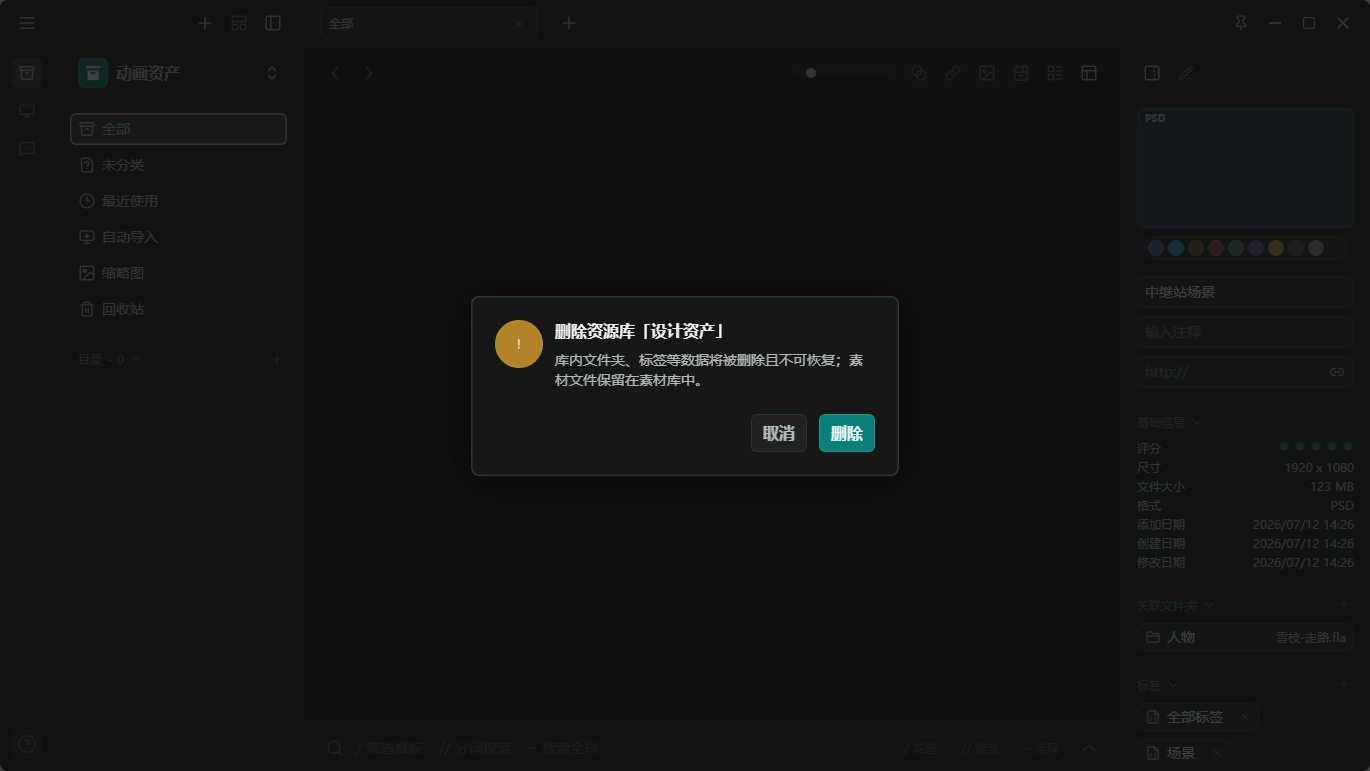
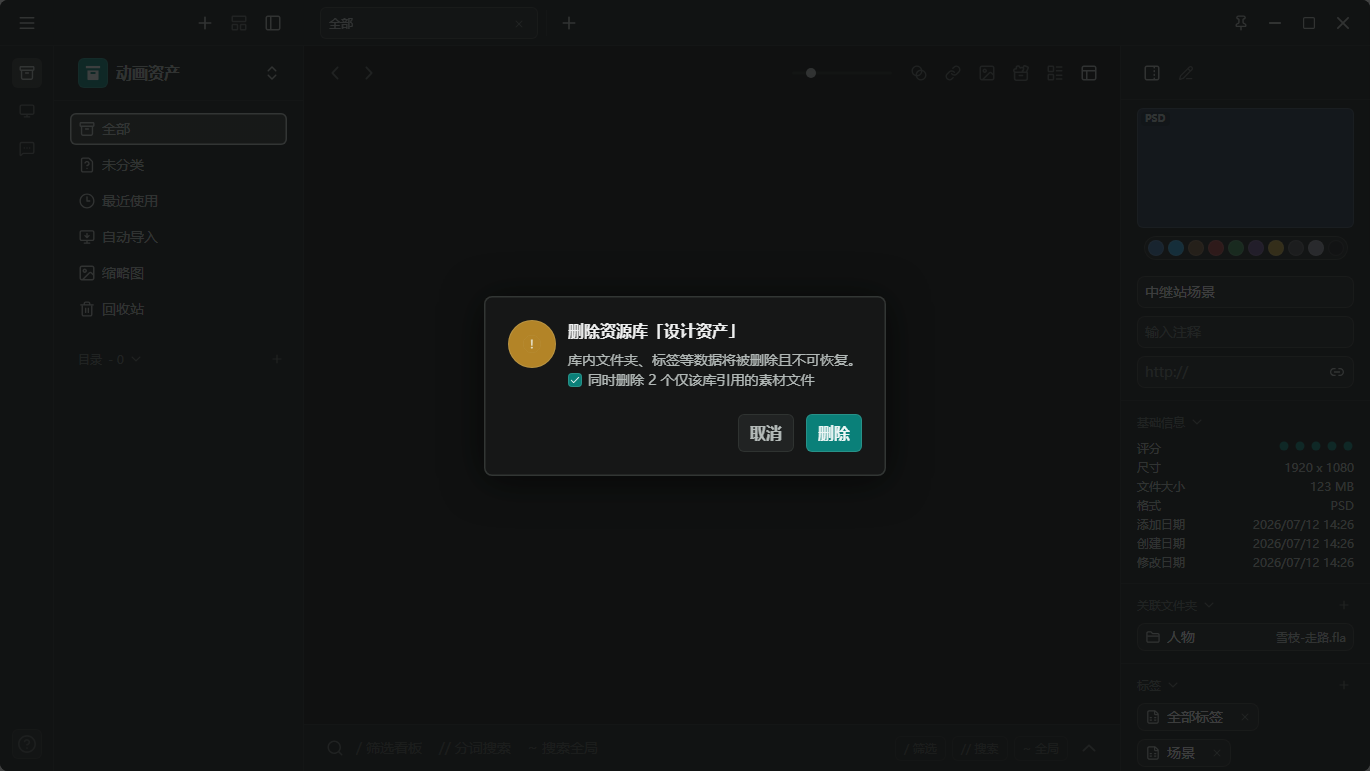
feat: 删库孤儿素材引用计数清理（count_library_orphans + deleteOrphans + 确认弹窗复选框）

Changed region(s): [[0.3372, 0.4047, 0.6131, 0.4981], [0.5518, 0.5292, 0.6438, 0.5914]]

diff --git a/src/App.vue b/src/App.vue
@@ -22,6 +22,7 @@ import SetupWizard from "./components/SetupWizard.vue";
 import CreateLibraryModal from "./components/CreateLibraryModal.vue";
 import AppModal from "./components/AppModal.vue";
 import AppButton from "./components/AppButton.vue";
+import AppCheckbox from "./components/AppCheckbox.vue";
 import ImportDialog from "./components/ImportDialog.vue";
 import SequenceDialog from "./components/SequenceDialog.vue";
 import ImportResultDialog from "./components/ImportResultDialog.vue";
@@ -235,7 +236,7 @@ async function togglePin(): Promise<void> {
     />
     <!-- 菜单"新建资源库"（16 稿独立弹窗） -->
     <CreateLibraryModal v-if="createLibraryModalState.open" @close="createLibraryModalState.open = false" />
-    <!-- 删除资源库确认（08 稿 item 删除×；09 稿 alert 侵入式配提示音） -->
+    <!-- 删除资源库确认（08 稿 item 删除×；09 稿 alert 侵入式配提示音；孤儿素材复选清理） -->
     <AppModal
       v-if="deleteLibraryState.name"
       variant="alert"
@@ -243,7 +244,13 @@ async function togglePin(): Promise<void> {
       :title="`删除资源库「${deleteLibraryState.name}」`"
       @close="deleteLibraryState.name = null"
     >
-      <p class="del-lib-text">库内文件夹、标签等数据将被删除且不可恢复；素材文件保留在素材库中。</p>
+      <p class="del-lib-text">库内文件夹、标签等数据将被删除且不可恢复。</p>
+      <AppCheckbox
+        v-if="deleteLibraryState.orphans > 0"
+        v-model="deleteLibraryState.includeOrphans"
+        :label="`同时删除 ${deleteLibraryState.orphans} 个仅该库引用的素材文件`"
+      />
+      <p v-else class="del-lib-text">素材文件保留在素材库中。</p>
       <template #actions>
         <AppButton label="取消" @click="deleteLibraryState.name = null" />
         <AppButton label="删除" variant="primary" @click="confirmDeleteLibrary" />

diff --git a/src/lib/libraryOps.ts b/src/lib/libraryOps.ts
@@ -154,11 +154,25 @@ export async function reorderLibraries(order: string[]): Promise<void> {
 }
 
 // 删除资源库（08 稿 item 删除×）：确认弹窗状态 + 执行。
+// 孤儿清理（2026-08-12 用户定案：统一池保留 + 引用计数清理）——弹窗前统计"仅该库引用"的素材数，
+// 复选框勾选（默认勾）则删库时一并删除这些素材实体（info 文件夹），共享素材保留。
 // 删当前打开的库 → 切剩余第一个 / 无剩余回第二步向导（PRD 01_储存空间 3.2）
-export const deleteLibraryState = reactive<{ name: string | null }>({ name: null });
+export const deleteLibraryState = reactive<{ name: string | null; orphans: number; includeOrphans: boolean }>({
+  name: null,
+  orphans: 0,
+  includeOrphans: true,
+});
 
 export function requestDeleteLibrary(name: string): void {
   deleteLibraryState.name = name;
+  deleteLibraryState.orphans = 0;
+  deleteLibraryState.includeOrphans = true;
+  // 统计失败不阻塞弹窗（复选框隐藏 = 不删实体）
+  void invoke<number>("count_library_orphans", { name })
+    .then((n) => {
+      if (deleteLibraryState.name === name) deleteLibraryState.orphans = n;
+    })
+    .catch(() => {});
 }
 
 export async function confirmDeleteLibrary(): Promise<void> {
@@ -166,7 +180,8 @@ export async function confirmDeleteLibrary(): Promise<void> {
   if (!name) return;
   const toast = useToastStore();
   try {
-    const rest = await invoke<string[]>("delete_library", { name });
+    const deleteOrphans = deleteLibraryState.orphans > 0 && deleteLibraryState.includeOrphans;
+    const rest = await invoke<string[]>("delete_library", { name, deleteOrphans });
     deleteLibraryState.name = null;
     toast.notify({ message: `资源库「${name}」已删除`, icon: "success", duration: 3000 });
     if (currentLibrary.name === name) {

diff --git a/tools/cdp-library-menu-probe.py b/tools/cdp-library-menu-probe.py
@@ -21,7 +21,8 @@ window.__TAURI_INTERNALS__ = {
   metadata: { currentWindow: { label: "main" }, currentWebview: { label: "main" } },
   invoke: (cmd, args) => {
     if (cmd === "reorder_libraries") window.__calls.reorder_libraries.push(args.order);
-    if (cmd === "delete_library") { window.__calls.delete_library.push(args.name); return Promise.resolve(["设计资产"]); }
+    if (cmd === "delete_library") { window.__calls.delete_library.push(args); return Promise.resolve(["设计资产"]); }
+    if (cmd === "count_library_orphans") return Promise.resolve(2);
     const LIB = { name: "动画资产", path: "E:/T/S/动画资产", assetCount: 0, folderCount: 0 };
     const R = {
       get_current_library: LIB,
@@ -124,6 +125,7 @@ async def main():
             await asyncio.sleep(0.6)
             print("菜单已关:", await ev("!document.querySelector('.app-menu')"))
             print("确认弹窗:", await ev("document.querySelector('.app-modal.alert .title')?.textContent ?? null"))
+            print("孤儿复选框:", await ev("document.querySelector('.app-modal .app-checkbox')?.textContent?.trim() ?? null"))
             import base64
             r = await send(ws, "Page.captureScreenshot", {"format": "png"}, session=sess)
             with open("tools/style-preview/delete-library-alert.png", "wb") as f:

diff --git a/docs/04_开发日志/2026-08-12.md b/docs/04_开发日志/2026-08-12.md
@@ -12,3 +12,4 @@
 - **2.1 八轮：inbox 改空间级共用（2026-08-12 用户定案："当初想的是空间级 inbox 共用一个，可以改成这种"）**。库级 settings.json 整个移除（唯一字段 autoImport 移出），库目录回到纯数据 + backup/cache/vectors；space.json 加 autoImport（serde default 兼容旧文件）；inbox/ 上移空间根（create 建 / open 自愈），盘符挂载恒定不随切库（activate_space 启停收件箱，activate 不再碰）；set_auto_import 改空间级返回 SpaceInfo；create_library 去 auto_import 参数、create_space 加之；commands/inbox.rs 四命令路径推导改空间根（导入目标仍当前库）；格式图标缓存锚点修正回库级 cache/thumbs（snapshot 加 cache_root 参数，无库 None 回退角标，含"空间根不出现 cache/"防回归断言）；库名保留字补 inbox。前端：currentLibrary.autoImport 移除改 currentSpace（name/autoImport，开空间/开关切换/侧栏兜底三处同步）；向导第二步开关 = 空间级设置（create_space 带入 / 已开空间场景变更走 set_auto_import，打开空间后回显当前值）；16 稿弹窗 create_library 不再带参。CDP 探针复验（cdp-autoimport-probe.py 桩更新）：弹窗 → set_auto_import → 进视图链路完好。cargo test 243 / vue-tsc / build 全绿。PRD 01_储存空间 02/3.1 与 07 接口文档同步。
 - **2.1 九轮：切换资源库菜单库 item 按 08 稿落地（用户走查：样式不对 + 抓手拖动排序 + 其他 item 跟随移动动画）**。原纯文字 checkable 项作废。新 `LibraryMenuItem.vue`（08 稿：移动抓手 drag-handle + 品牌徽章 20×20 + 库名标题档 + 当前库对勾与亮-选中罩层 + 删除×）；CtxItem 加 `library` 标记，ContextMenu 分流渲染（搜索平铺态退化普通 MenuItem）。**拖动排序**：抓手 pointerdown 起拖（window 监听 + blur 兜底取消，规范第 4 条），35px 步进（item 33 + gap 2）算目标位，被跨越项 translateY ∓35 让位（0.15s 过渡 = 跟随移动动画），拖动项跟随指针（transition none 防滞后），松手 splice 重排 + `reorder_libraries` 持久化（space.json libraryOrder：order 内按序、外来目录排尾字典序、create_library 自动入尾）；拖动超 3px 阈值抑制松手后的 click 误切库。**删除×**：关菜单 → AppModal alert 确认（"数据不可恢复，素材保留在素材池"）→ `delete_library`（删当前库先清 state/undo 再删目录）→ 删当前库时切剩余第一个 / 无剩余回第二步向导。后端 cargo test 250 绿（排序/删除/旧文件兼容覆盖）。CDP 探针实证（cdp-library-menu-probe.py + library-menu.png）：结构四件齐、让位 transform、reorder 顺序、删除链全通。vue-tsc 全绿。PRD 01_储存空间 3.2 同步。
 - **2.1 十轮：拖动松手动画与删除确认弹窗样式修正（2026-08-12 用户走查）**。① **松手多余交换动画**——根因：松手 splice 重排 + 清 transform 时 transition 仍生效，让位项视觉本已在目标位却又走了一遍过渡（"弹回去"观感）。修 = 库项 v-for key 改 `lib:库名`（splice 后 DOM 物理移动）+ 松手归位帧 `.menu-items.settling :deep(.lib-item) { transition: none }` 禁过渡——松手即到位（拖动项瞬移差 ≤ 半步 17px）。② **alert 弹窗样式错版**——AppModal alert 初版误做居中竖排，按 09 稿改横排：左 48 圆形状态徽章（error/warning 状态色底 + 亮-选中边框 + 图标 18 常态色）+ 右标题（16 高亮）/描述（14 常态）竖排 gap 8；删除确认标题带库名、描述精简。CDP 探针复验（library-menu 探针全链路 + delete-library-alert.png 贴稿）。vue-tsc 全绿。
+- **2.1 十一轮：删库孤儿素材清理（2026-08-12 用户定案：统一池保留 + 引用计数清理，否决 Eagle 式每库独立资产夹——会毁掉跨库零迁移/共享单实体核心价值）**。后端：`count_library_orphans` 命令 + `delete_library` 加 deleteOrphans 参数；孤儿 = 该库引用集（folders ∪ recycle，回收站算引用）与其余库引用集并集的差集，先算后删（删库后读不到其数据文件），info 删除走 paths 单点按 ID 递归删不枚举 assets/。前端：删除确认弹窗统计孤儿数 + AppCheckbox"同时删除 N 个仅该库引用的素材文件"（默认勾，不勾全留池）。cargo test 254 绿（共享保留/独有删除/recycle 引用/计数断言）。CDP 探针复验（复选框渲染 + deleteOrphans 参数传递 + delete-library-alert.png 贴稿）。vue-tsc 全绿。PRD 3.2 与接口文档同步。

diff --git a/docs/07_接口文档.md b/docs/07_接口文档.md
@@ -15,7 +15,8 @@
 	- `list_recent_libraries() -> LibraryEntry[]` —— 全局配置 config.json 的资源库最近列表（最近在前）；启动自动重开（reopenLastSession）与打开空间后选库使用
 	- `set_auto_import(enabled: bool) -> SpaceInfo` —— 自动导入开关（**空间级**，space.json 单写点；inbox 空间级共用，2026-08-12 用户定）：开 = 启动收件箱（盘符挂载 + 监听，目标 = 当前打开的库），关 = 停止收件箱（卸载盘符）；空间打开 / 切换时按该设置启停
 	- `reorder_libraries(order: string[]) -> string[]` —— 库列表拖动排序持久化（08 稿抓手拖动，space.json `libraryOrder` 单写点）；order 与实扫库名集合不一致报中文错；list_space_libraries 返回即按此序（外来目录排尾字典序，create_library 自动入尾）
-	- `delete_library(name: string) -> string[]`（剩余库名列表）—— 删除资源库：删当前打开的库先清 state/undo 再删目录（库内数据不可恢复，素材实体保留在 assets 池；确认弹窗在前端）；order 移除；删当前库后的切换由前端据返回列表驱动（切剩余第一个 / 无剩余回向导第二步）
+	- `delete_library(name: string, deleteOrphans: bool) -> string[]`（剩余库名列表）—— 删除资源库：删当前打开的库先清 state/undo 再删目录（库内数据不可恢复；确认弹窗在前端）；order 移除；删当前库后的切换由前端据返回列表驱动（切剩余第一个 / 无剩余回向导第二步）。**deleteOrphans（2026-08-12 孤儿清理定案）**：先算孤儿集再删库——孤儿 = 该库引用集（folders ∪ recycle）与其余各库引用集并集的差集，true 时这些 info 实体从 assets 池递归删除（共享素材保留；按 ID 删，不枚举 assets/）
+	- `count_library_orphans(name: string) -> u64` —— 统计该库孤儿素材数（删库确认弹窗的复选框文案用）
 	- 路径纪律：ID → info 路径推导唯一出口 `core/paths.rs`（assets 池访问纪律，PRD 01_储存空间），业务侧禁止自行拼 assets 路径
 	- **UI 设置与窗口几何持久化（2026-07-28 用户复验定："用户设置要持久化，包括窗口大小，位置"）**：落全局 config.json 的 settings 子树（core/config.rs 单一写点，应用级不随库）
 		- `get_ui_settings() -> Record<string, unknown>` —— settings.ui 子树原样返回（从未保存 = 空对象，前端按默认值补齐并做类型对照校验）；前端启动时调用覆盖 ui store（多预览窗口各自独立 Pinia 各自加载，不做跨窗口同步）

diff --git a/docs/03_项目-PRD/01_储存空间.md b/docs/03_项目-PRD/01_储存空间.md
@@ -56,7 +56,7 @@ AniKit（储存空间）
 ### 3.2 资源库管理
 
 - 切换资源库的二级菜单中可新建、切换资源库。
-- 库列表 item（08 稿）：移动抓手 + 品牌徽章 + 库名（标题档）+ 当前库对勾 + 删除×；**抓手拖动排序**（拖动时其他 item 跟随移动动画），自定义顺序持久化于 space.json `libraryOrder`（新库排尾，列表按此排序返回）；**删除×** = 删除资源库（确认弹窗：库内数据文件删除不可恢复，素材实体保留在 assets 池），删除当前打开的库时自动切到剩余第一个库、无剩余则回第二步创建（2026-08-12 定）。
+- 库列表 item（08 稿）：移动抓手 + 品牌徽章 + 库名（标题档）+ 当前库对勾 + 删除×；**抓手拖动排序**（拖动时其他 item 跟随移动动画，松手即到位），自定义顺序持久化于 space.json `libraryOrder`（新库排尾，列表按此排序返回）；**删除×** = 删除资源库（确认弹窗：库内数据文件删除不可恢复），删除当前打开的库时自动切到剩余第一个库、无剩余则回第二步创建（2026-08-12 定）。**孤儿素材清理**（2026-08-12 用户定案，统一池保留 + 引用计数）：弹窗统计"仅该库引用的素材数"（引用口径 = 各库 folders.json ∪ recycle.json），复选框默认勾选"同时删除 N 个仅该库引用的素材文件"——确认后这些 info 实体从 assets 池一并删除，跨库共享的保留；不勾则全部留池。
 - 储存空间可创建多个，不同空间内资源**完全独立、不互通不共享**；跨空间互通走导出素材包 `.anikit` 导入合并（后续版本）。
 - 每个储存空间内允许建立多个资源库，多个资源库允许合并为一个。
 - 工作空间默认唯一 `workspace` 文件夹，用户按习惯和项目自建层级；可在设置中将其以目录联接（junction，Windows 免管理员权限）映射至其他路径，供用户在资源管理器内直接操作（不考虑散落在各处的既有项目文件夹——用户经 UI 导入或在 UI 内创建项目）。
